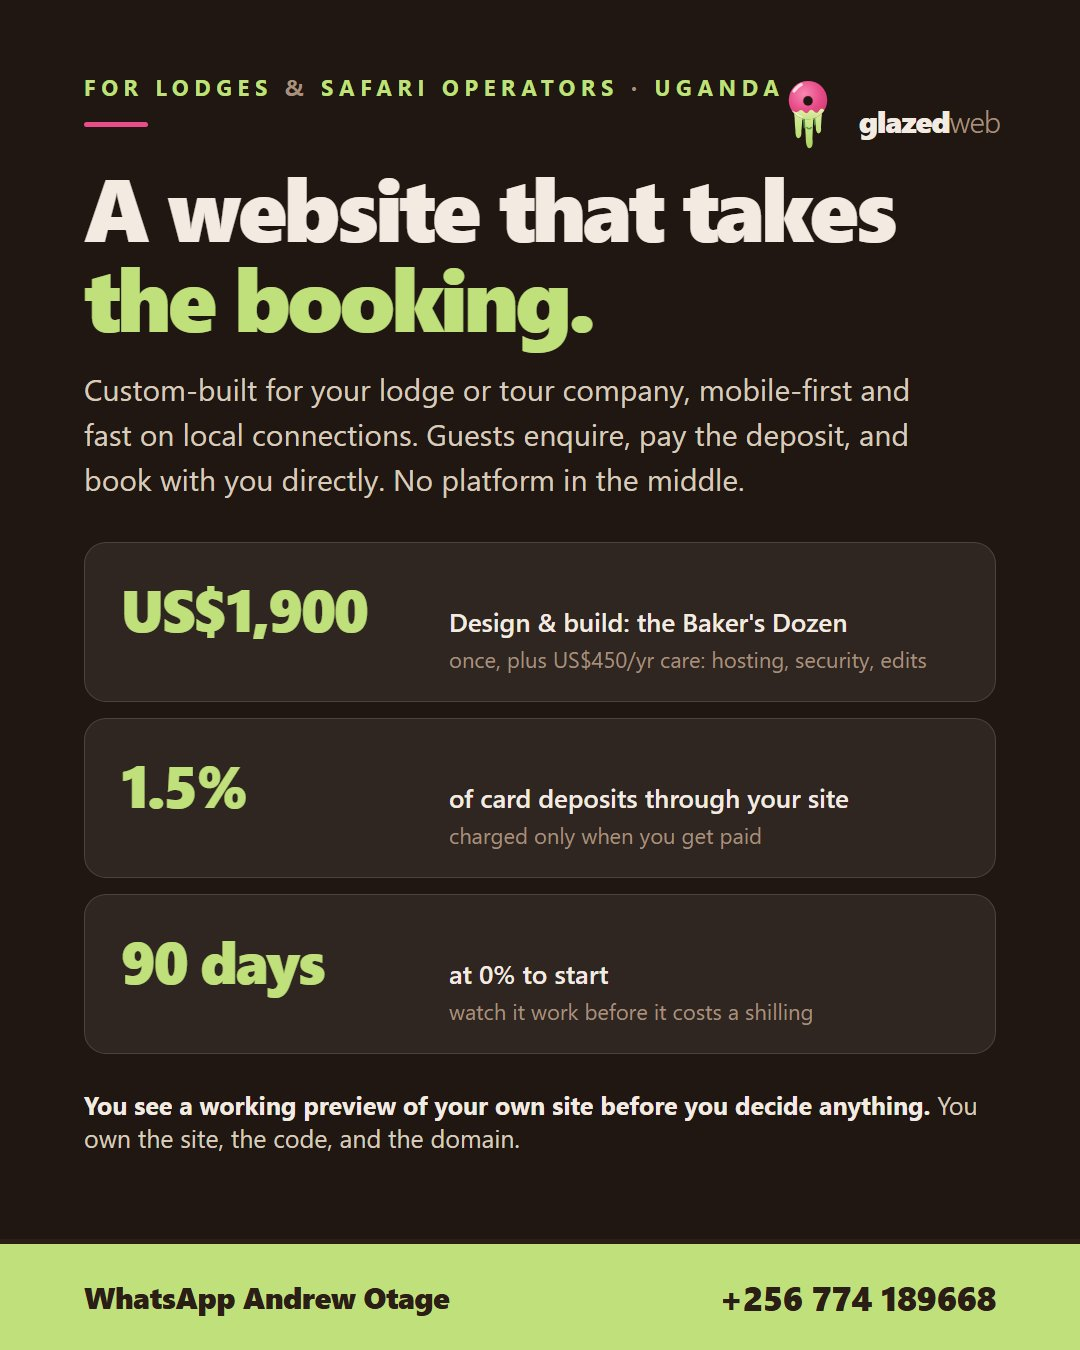
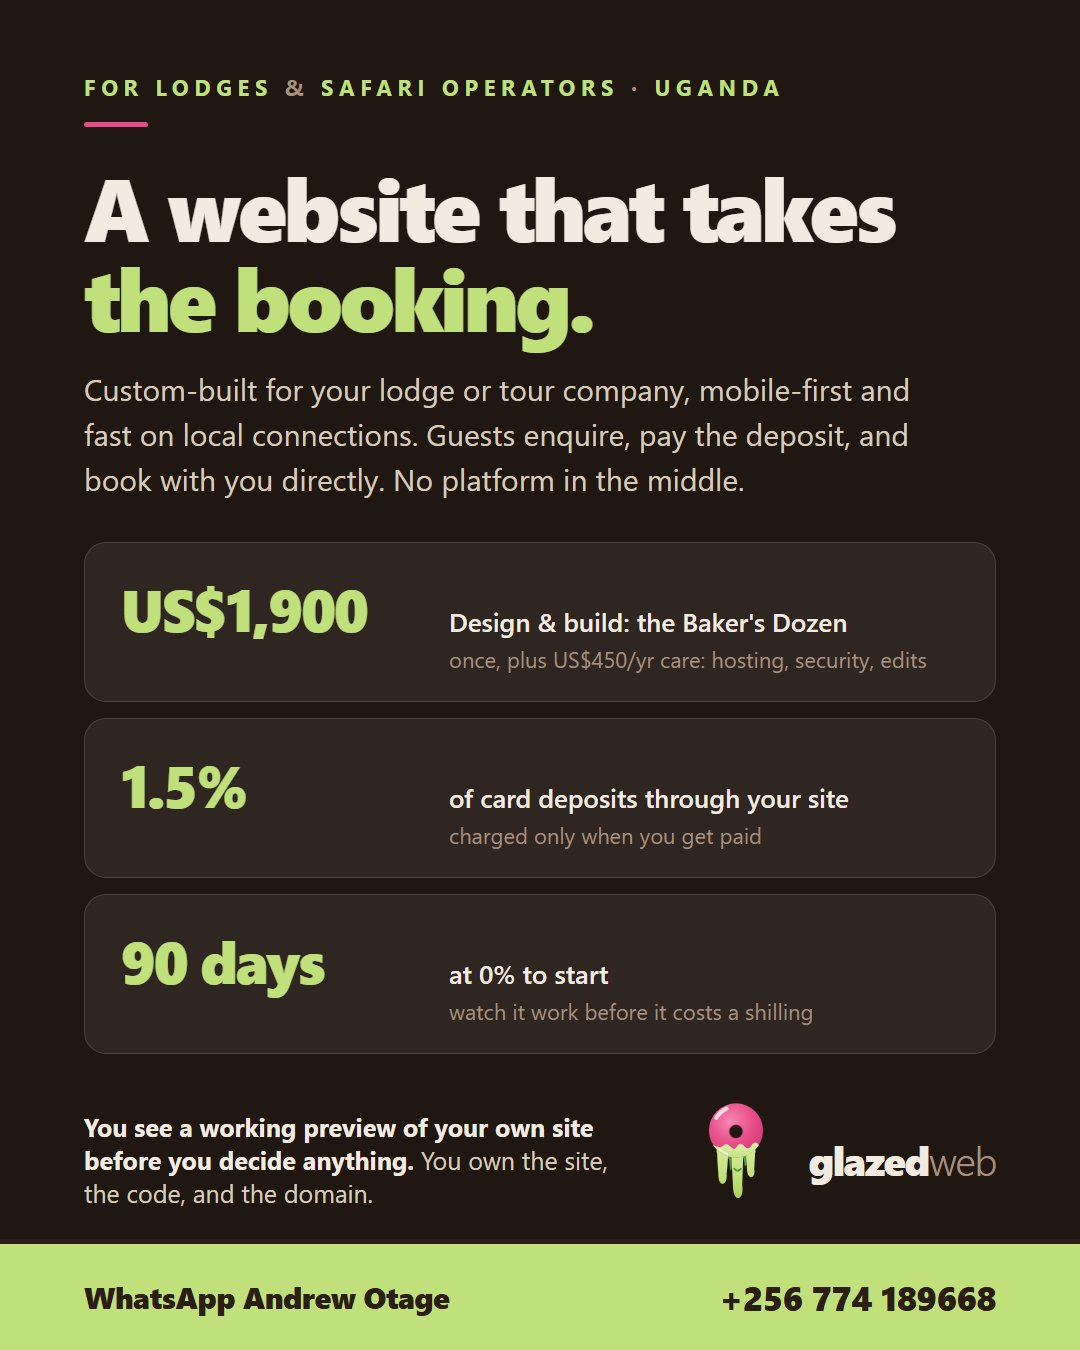
The lockup earns its corner back
Kevin flagged the brand cramped against the kicker in the top corner,
and he was right: the donut sat at 74px fighting a full-width caps
line for the same breathing room. The kicker now owns the top alone,
and the lockup moved to the bottom row at full size (104px mark, 40px
wordmark) opposite the preview promise, where it balances the slime
contact bar instead of crowding the headline.

Changed region(s): [[0.0611, 0.8089, 0.9167, 0.9022], [0.7944, 0.0622, 0.9167, 0.1244], [0.7333, 0.0622, 0.7639, 0.1244]]

diff --git a/glaze/assets/collateral/uganda-operators-post.html b/glaze/assets/collateral/uganda-operators-post.html
@@ -14,15 +14,16 @@ h1 em{font-style:normal;color:#BFE07A}
 .tile .n{font-size:58px;font-weight:800;letter-spacing:-2px;color:#BFE07A;flex:0 0 300px;font-variant-numeric:tabular-nums}
 .tile .l{font-size:26px;color:#F3EAE1;line-height:1.4;font-weight:600}
 .tile .l small{display:block;font-weight:400;color:#A6907F;font-size:22px;margin-top:4px}
-.preview{margin-top:34px;font-size:25px;color:#D8CBBE}
+.bottomrow{margin-top:40px;display:flex;align-items:center;justify-content:space-between;gap:40px}
+.preview{font-size:25px;color:#D8CBBE;max-width:640px}
 .preview b{color:#F3EAE1}
 .contact{position:absolute;left:0;right:0;bottom:0;background:#BFE07A;border-top:5px solid #2B1E16;padding:30px 84px;display:flex;align-items:center;justify-content:space-between;z-index:3}
 .contact .who{font-size:30px;font-weight:800;color:#2B1E16;letter-spacing:-0.5px}
 .contact .num{font-size:34px;font-weight:800;color:#2B1E16;letter-spacing:-0.5px}
-.brand{position:absolute;right:80px;top:74px;display:flex;align-items:center;gap:14px;z-index:2}
-.brand .bw{font-size:30px;font-weight:800;color:#F3EAE1;letter-spacing:-1px}
+.brand{display:flex;align-items:center;gap:20px;flex:0 0 auto}
+.brand .bw{font-size:40px;font-weight:800;color:#F3EAE1;letter-spacing:-1.4px}
 .brand .bw span{font-weight:350;color:#A6907F}
-.donut{width:74px;height:93px}
+.donut{width:104px;height:130px}
 </style></head><body>
 <div class="pad">
   <div class="k">For lodges <span class="sep">&amp;</span> safari operators <span class="sep">·</span> Uganda</div>
@@ -34,11 +35,13 @@ h1 em{font-style:normal;color:#BFE07A}
     <div class="tile"><div class="n">1.5%</div><div class="l">of card deposits through your site<small>charged only when you get paid</small></div></div>
     <div class="tile"><div class="n">90 days</div><div class="l">at 0% to start<small>watch it work before it costs a shilling</small></div></div>
   </div>
-  <div class="preview"><b>You see a working preview of your own site before you decide anything.</b> You own the site, the code, and the domain.</div>
-</div>
-<div class="brand">
+  <div class="bottomrow">
+    <div class="preview"><b>You see a working preview of your own site before you decide anything.</b> You own the site, the code, and the domain.</div>
+    <div class="brand">
   <svg class="donut" viewBox="0 0 200 250" overflow="visible"><defs><linearGradient id="dg" x1="0" y1="92" x2="0" y2="165" gradientUnits="userSpaceOnUse"><stop offset="0%" stop-color="#5FA850"/><stop offset="100%" stop-color="#43813A"/></linearGradient><linearGradient id="lg" x1="0" y1="92" x2="0" y2="215" gradientUnits="userSpaceOnUse"><stop offset="0%" stop-color="#D9EDA0"/><stop offset="55%" stop-color="#BFE07A"/><stop offset="100%" stop-color="#A3CE55"/></linearGradient><radialGradient id="pk" cx="40%" cy="34%" r="75%"><stop offset="0%" stop-color="#F887B2"/><stop offset="55%" stop-color="#E84D8A"/><stop offset="100%" stop-color="#CE3672"/></radialGradient><linearGradient id="cp" x1="0" y1="90" x2="0" y2="124" gradientUnits="userSpaceOnUse"><stop offset="0%" stop-color="#E3F2B0"/><stop offset="100%" stop-color="#C3E181"/></linearGradient></defs><g fill="url(#dg)"><ellipse cx="100" cy="110" rx="38" ry="15"/><path d="M 86 100 C 86 116, 87 130, 88 142 C 88 148, 91 149, 92 142 C 93 130, 92 114, 92 100 Z"/><path d="M 114 100 C 114 112, 115 124, 116 134 C 116 140, 119 141, 120 134 C 121 124, 120 110, 120 100 Z"/></g><g fill="url(#lg)"><path d="M 64 100 C 63 120, 65 138, 66 152 C 66 164, 68 172, 74 173 C 80 172, 83 165, 82 154 C 84 136, 85 116, 86 100 Z"/><path d="M 92 100 C 91 128, 93 152, 94 172 C 94 188, 97 199, 104 200 C 111 199, 114 190, 112 174 C 113 150, 114 124, 114 100 Z"/><path d="M 120 100 C 119 116, 120 130, 121 142 C 121 152, 123 159, 129 160 C 134 159, 137 153, 135 144 C 136 130, 137 114, 137 100 Z"/></g><circle cx="100" cy="70" r="52" fill="url(#pk)"/><path d="M 56 98 A 52 52 0 0 0 144 98 C 142 94, 138 92, 134 94 C 130 97, 129 102, 125 104 C 119 106, 116 98, 110 96 C 104 94, 103 102, 98 105 C 93 107, 90 100, 84 97 C 78 95, 76 100, 71 102 C 66 103, 62 100, 56 98 Z" fill="url(#cp)"/><path d="M 68 106 A 42 42 0 0 0 84 116" fill="none" stroke="#F1F8DC" stroke-width="4" stroke-linecap="round" opacity="0.85"/><path d="M 97 144 Q 103 151 109 144" fill="none" stroke="#55974A" stroke-width="4" stroke-linecap="round"/><circle cx="100" cy="72" r="13" fill="#201712"/><circle cx="100" cy="72" r="13" fill="none" stroke="#C22F6B" stroke-width="3" opacity="0.3"/><path d="M 62 46 A 44 44 0 0 1 82 28" fill="none" stroke="#FFFFFF" stroke-width="8" stroke-linecap="round" opacity=".75"/></svg>
-  <span class="bw">glazed<span>web</span></span>
+    <span class="bw">glazed<span>web</span></span>
+    </div>
+  </div>
 </div>
 <div class="contact"><span class="who">WhatsApp Andrew Otage</span><span class="num">+256 774 189668</span></div>
 </body></html>
